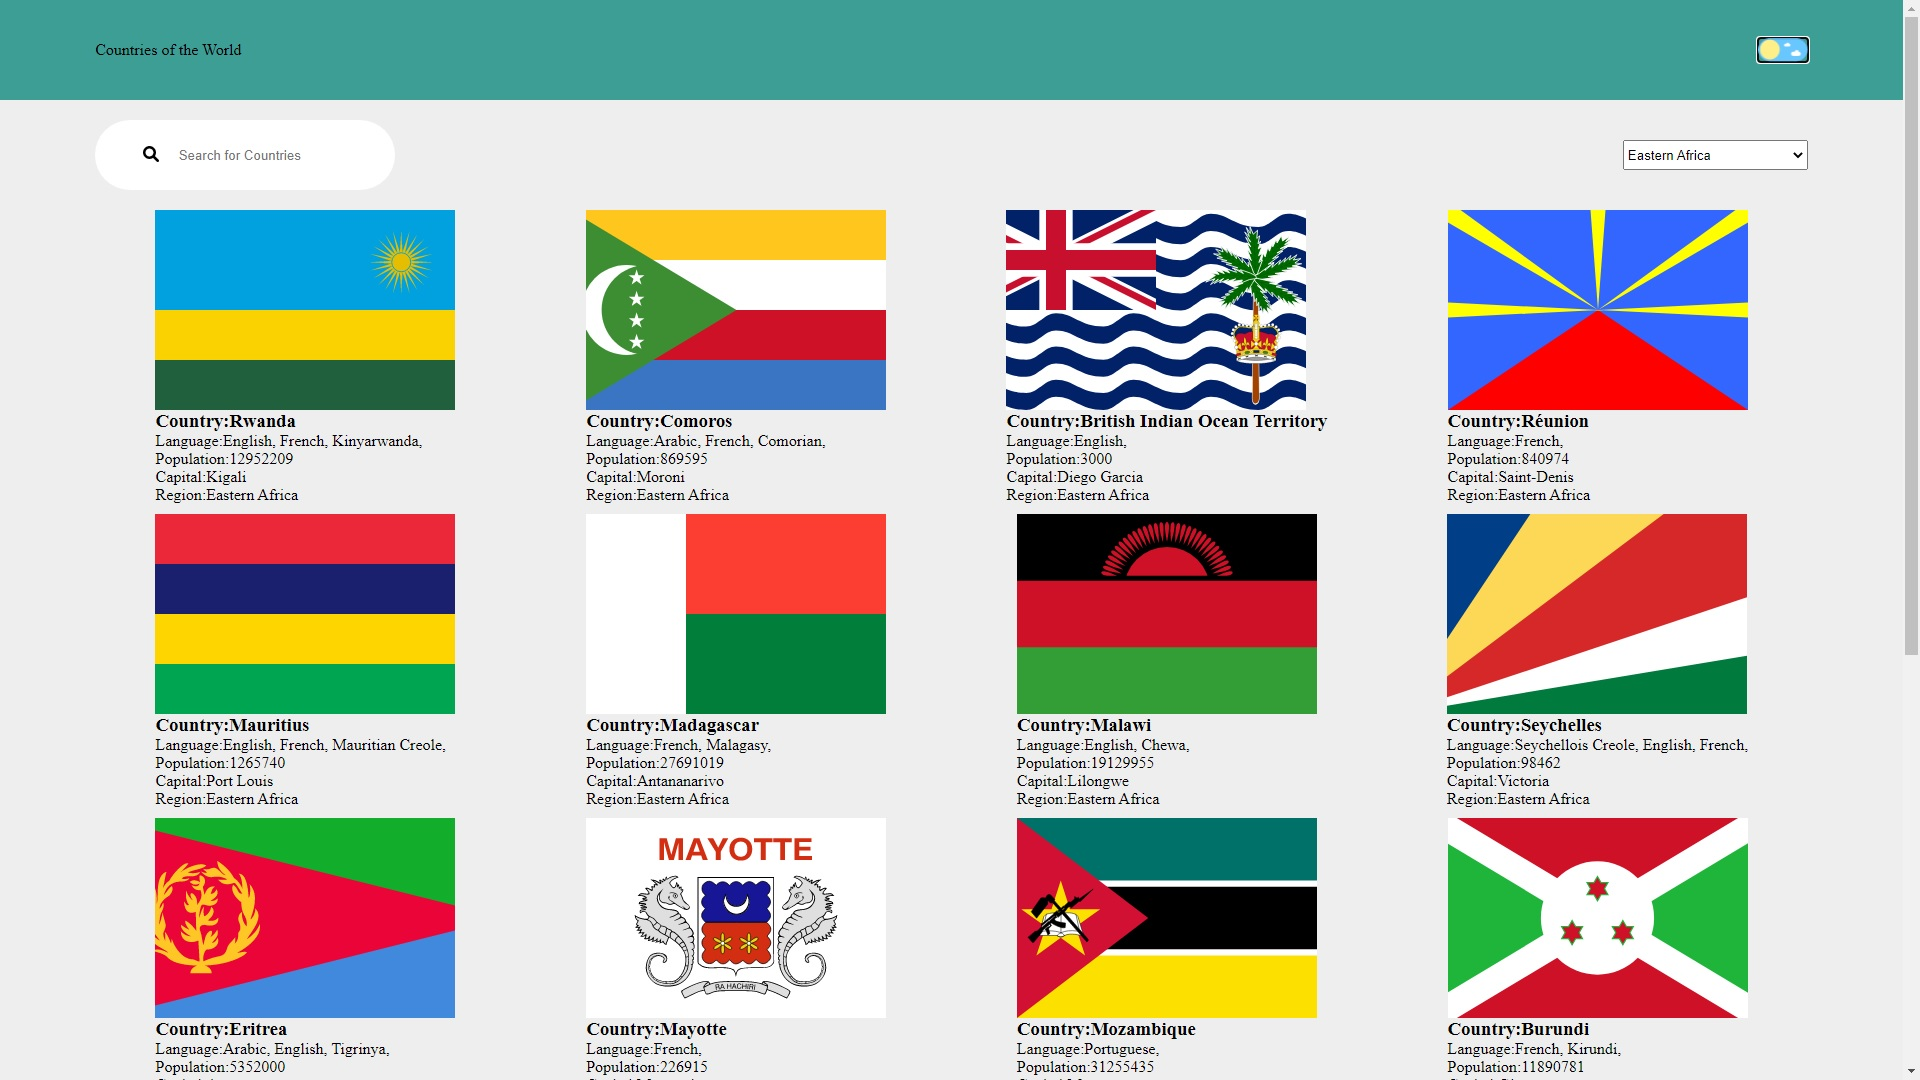
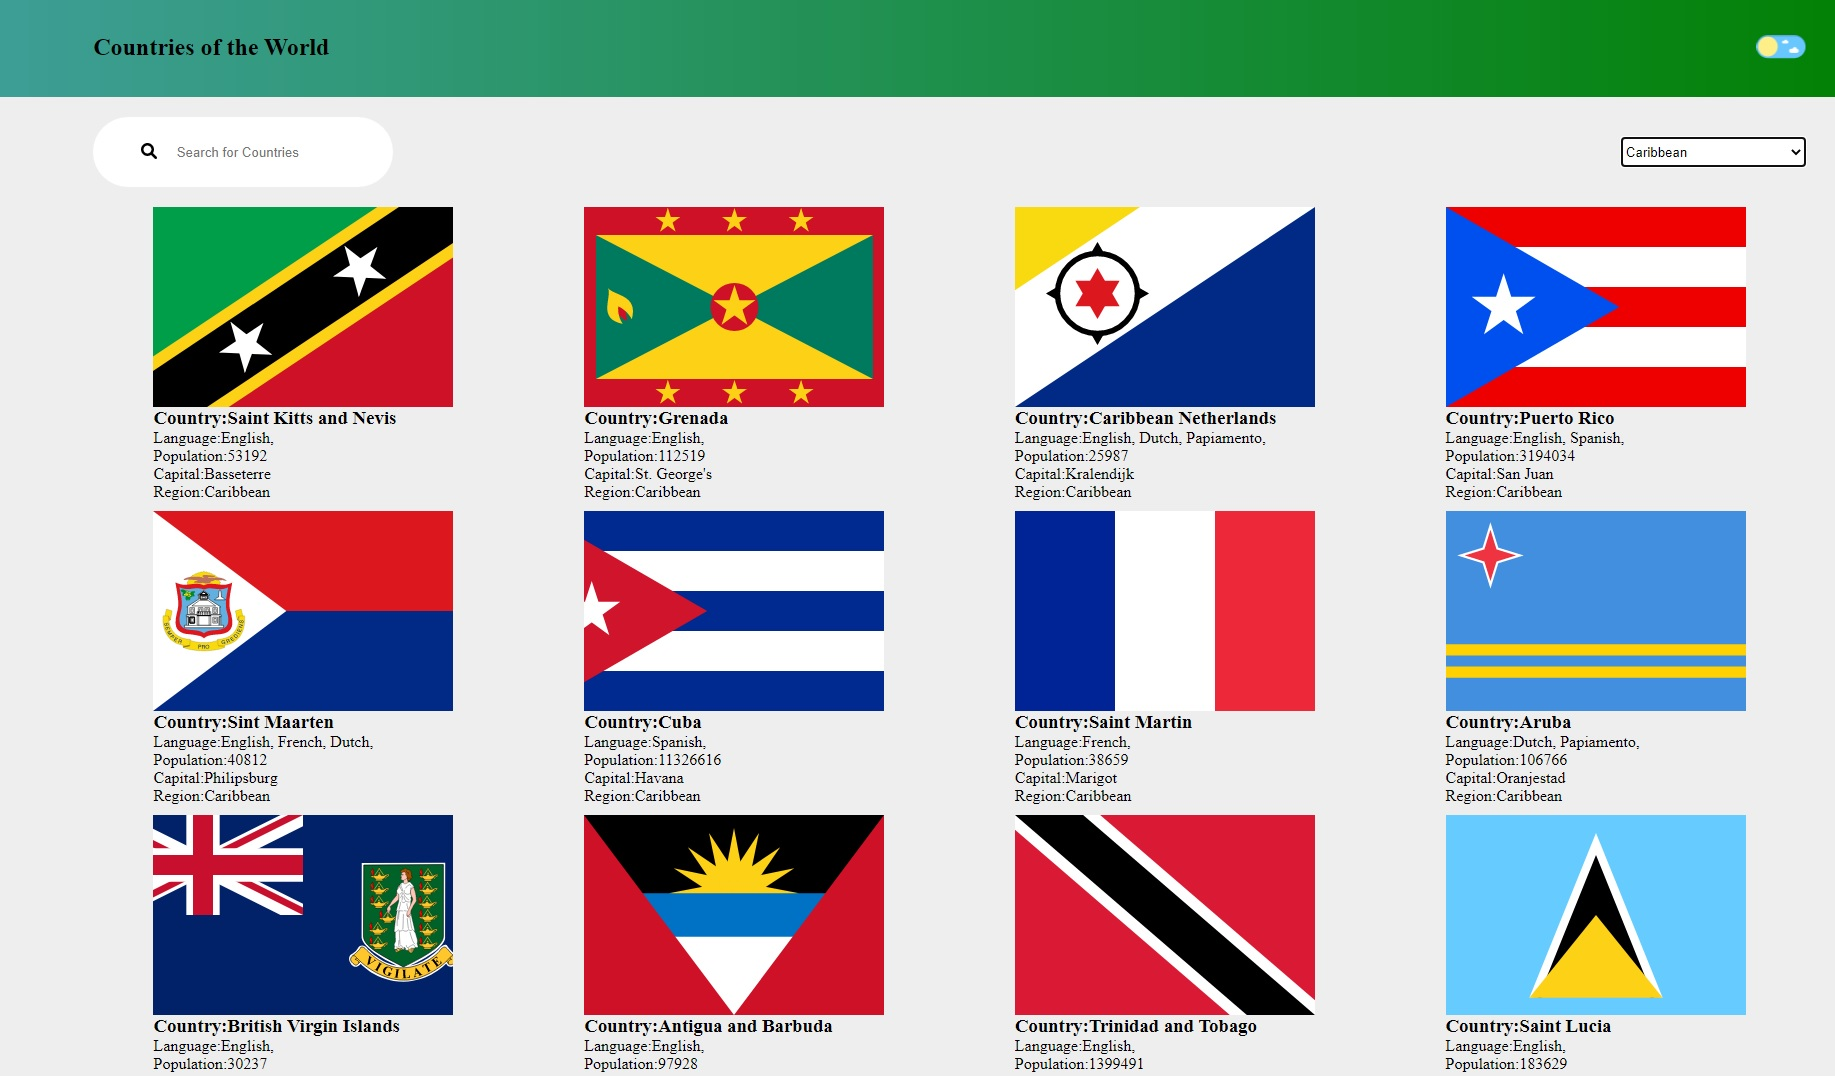
adding the projcet styles

diff --git a/src/data/projectData.js b/src/data/projectData.js
@@ -3,6 +3,7 @@ import beautyphone from "../assets/projects_images/beautyline_phone.jpg";
 import countries from "../assets/projects_images/countries.jpg";
 import trainer from "../assets/projects_images/typetrainer.jpg";
 import trainerphone from "../assets/projects_images/typetrainer_results.jpg";
+import countryphone from "../assets/projects_images/countries_phone.jpg";
 
 export const projects = [
   {
@@ -17,7 +18,7 @@ export const projects = [
     description:
       " used Countries API, project has light and dark mode, users can search country by region, name",
     image1: countries,
-    image2: countries,
+    image2: countryphone,
   },
   {
     name: "Typetrainer",
